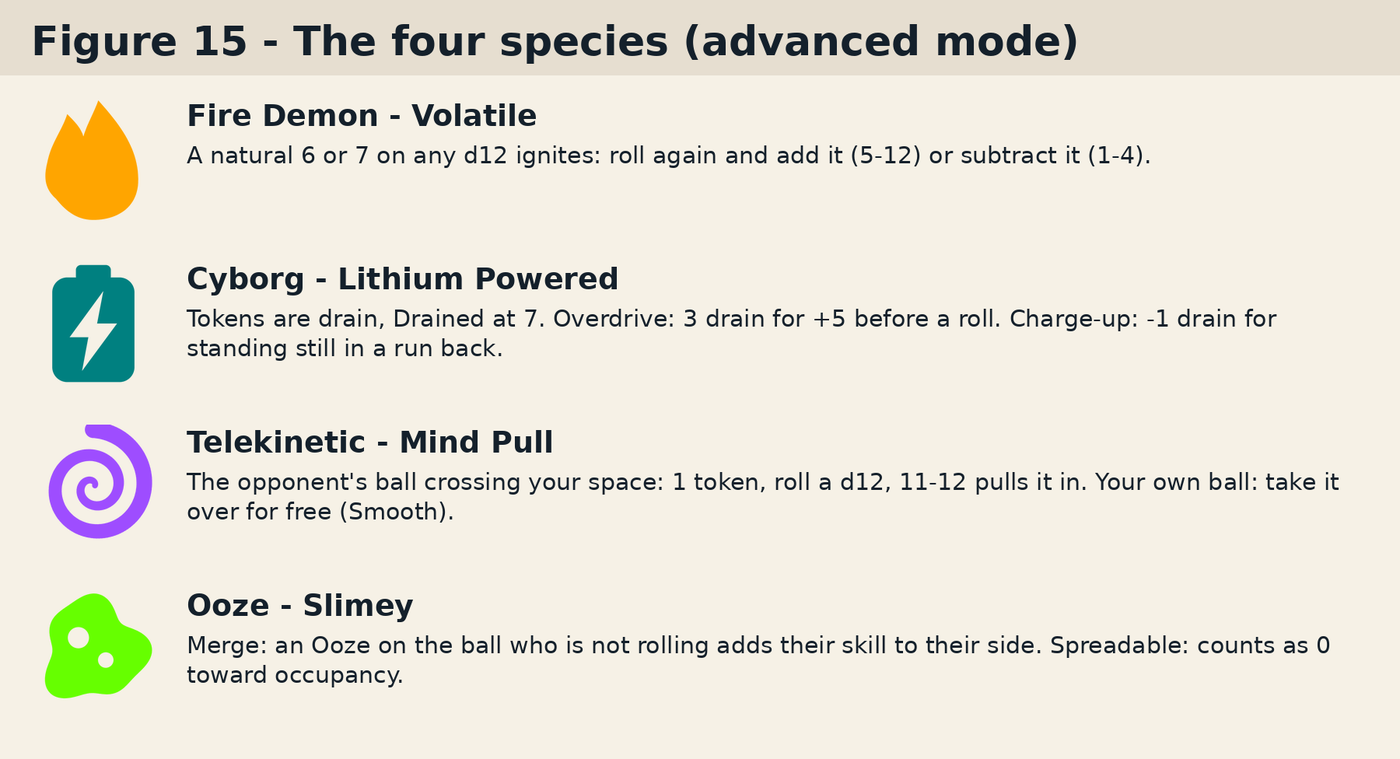
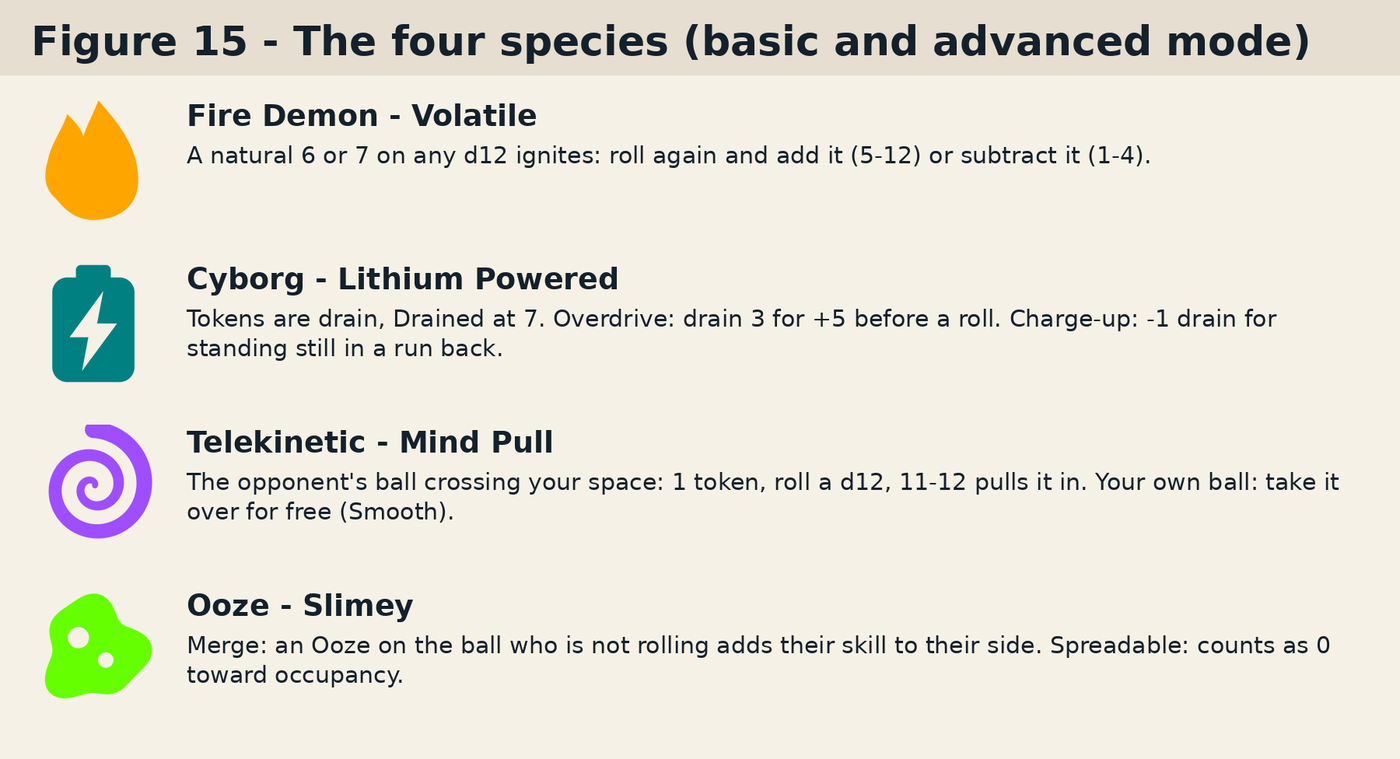
Rules: three modes -- training, basic and advanced
The author, 2026-09-25: species abilities move into basic mode; what
was basic mode becomes training mode, with no ability of any kind; the
tutorial is a training game; advanced mode adds the gambits and the
players' personal abilities to basic mode. The per-module opt-out goes
with it.

The Charter's Part II becomes basic and advanced mode, Law 18 says
which mode plays what and names the personal abilities (not yet worded
one by one), and the Learn to Play now teaches training mode. Dated
entry in docs/rules-log.md.

Claude-Session: https://claude.ai/code/session_01SVYTCuhqZTVsWg7A5R1maX

Changed region(s): [[0.4914, 0.0303, 0.9521, 0.0909], [0.4914, 0.3939, 0.5529, 0.4545]]

diff --git a/d12ball/rulebook_figures.py b/d12ball/rulebook_figures.py
@@ -616,7 +616,7 @@ def species_figure() -> Image.Image:
     width = 1800
     canvas = Image.new("RGB", (width, TITLE_BAND + len(entries) * row_h + 40), FACE_COLOR)
     draw = ImageDraw.Draw(canvas)
-    draw_title(draw, "Figure 15 - The four species (advanced mode)", width)
+    draw_title(draw, "Figure 15 - The four species (basic and advanced mode)", width)
     name_font = render.load_font(38, bold=True)
     text_font = render.load_font(30)
     y = TITLE_BAND + 30

diff --git a/docs/living-rules.md b/docs/living-rules.md
@@ -1,6 +1,6 @@
 # The D12Ball Charter: Laws of the Game
 
-This document is the final authority on the rules of D12 Ball. It states each rule once and settled, for **basic mode** and for the **advanced mode** a game may be played in instead. History, open questions and the places upstream has not caught up yet all belong in [rules-log.md](rules-log.md), and the illustrated introduction to the game is [learn-to-play.md](learn-to-play.md).
+This document is the final authority on the rules of D12 Ball. It states each rule once and settled, for each of the three modes a game may be played in: **training**, **basic** and **advanced**. History, open questions and the places upstream has not caught up yet all belong in [rules-log.md](rules-log.md), and the illustrated introduction to the game is [learn-to-play.md](learn-to-play.md).
 
 ## Contents
 
@@ -23,8 +23,8 @@ This document is the final authority on the rules of D12 Ball. It states each ru
   - [Law 15. Exhaustion and injury](#exhaustion-and-injury)
   - [Law 16. The clock](#the-clock)
   - [Law 17. Extreme shootout](#extreme-shootout)
-- Part II -- Advanced mode
-  - [Law 18. Advanced mode](#advanced-mode)
+- Part II -- Basic and advanced mode
+  - [Law 18. The three modes](#the-three-modes)
   - [Law 19. Gambits](#gambits)
   - [Law 20. Species abilities](#species-abilities)
 - [Appendix A. Quick reference](#appendix-a-quick-reference)
@@ -38,7 +38,7 @@ The Charter is divided into **Laws**, each Law into **sections**, and each secti
 
 **Precedence.** Where the Charter and any other statement of the rules disagree, the Charter is right: it wins over the Learn to Play, over the text printed on a card or a board, and over the bot. Where the Learn to Play simplifies, it says so and names the Law it simplifies.
 
-**Basic mode and advanced mode.** Laws 1 to 17 are the whole of the game in basic mode. Part II is what advanced mode adds and changes: [Law 18](#advanced-mode) says what it switches on, [Law 19](#gambits) is the gambits and [Law 20](#species-abilities) the species abilities. A rule in Part II wins over a rule in Part I for a game playing the module it belongs to, and applies nowhere else.
+**Training, basic and advanced mode.** Laws 1 to 17 are the whole of the game in training mode. Part II is what the other two modes add and change: [Law 18](#the-three-modes) says which mode plays what, [Law 19](#gambits) is the gambits and [Law 20](#species-abilities) the species abilities. A rule in Part II wins over a rule in Part I for a game playing the module it belongs to, and applies nowhere else.
 
 **Defined terms** are in bold where they are defined, and every one is listed in [Appendix B](#appendix-b-glossary) with the paragraph that defines it.
 
@@ -48,7 +48,7 @@ The Charter is divided into **Laws**, each Law into **sections**, and each secti
 
 ## Part I -- The game
 
-The whole of D12 Ball in basic mode, Laws 1 to 17. Nothing in Part I depends on Part II.
+The whole of D12 Ball in training mode, Laws 1 to 17. Nothing in Part I depends on Part II.
 
 ## The game in brief
 
@@ -112,7 +112,7 @@ Coverage is checked one team at a time, so an opposing meeple never covers a spa
 
 ### Players and roles
 
-A team is nine players, and in basic mode the two teams are identical.
+A team is nine players, and in training mode the two teams are identical.
 
 Every player has an **offensive skill** from 1 to 6 and a **defensive skill** that is its inverse, so the two always total 7.
 
@@ -163,7 +163,7 @@ A **space minute** is the unit of game time -- see [the clock](#the-clock).
 
 A **live ball** is one in play. A **dead ball** is one being brought back into play after a goal, a missed shot, an own-goal roll, a ball out of bounds or a period's start: it is carried to where play starts again rather than travelling over the spaces between.
 
-**Exhausted** and **Injured** are the two conditions a player can be in -- see [Law 15](#exhaustion-and-injury). In advanced mode a Cyborg's own words for them are Drained and Damaged -- see [Lithium Powered](#lithium-powered-cyborg).
+**Exhausted** and **Injured** are the two conditions a player can be in -- see [Law 15](#exhaustion-and-injury). In basic and advanced mode a Cyborg's own words for them are Drained and Damaged -- see [Lithium Powered](#lithium-powered-cyborg).
 
 **Behind** is the condition under which a coach holds gambits in advanced mode -- see [who may play a gambit](#who-may-play-a-gambit).
 
@@ -869,19 +869,29 @@ A level round goes to **sudden death**: each coach secretly picks one of their p
 
 Once all six have shot, a new round begins and everybody is available again.
 
-## Part II -- Advanced mode
+## Part II -- Basic and advanced mode
 
-What advanced mode adds to Part I and where it changes it, Laws 18 to 20. In basic mode, nothing in Part II exists.
+What basic and advanced mode add to Part I and where they change it, Laws 18 to 20. In training mode, nothing in Part II exists.
 
-## Advanced mode
+## The three modes
 
-### The two modules
+### What each mode plays
 
-**Advanced mode** turns on two modules: the [gambits](#gambits) and the [species abilities](#species-abilities). Both come on with it, and a game may take just one of the two. Which are in play is declared before the toss.
+A game is played in one of three modes, declared before the toss. Each adds to the one before it:
+
+- **Training mode** is Part I and nothing else. Species is only a name on the card, and every player follows the standard rules. The tutorial is a training game.
+- **Basic mode** adds the [species abilities](#species-abilities).
+- **Advanced mode** adds the [gambits](#gambits) and the [personal abilities](#personal-abilities) to basic mode.
 
 ### Part II wins in its own mode
 
-A rule in Part II wins over a rule in Part I for a game playing the module it belongs to. In basic mode Part II does not apply, species is only a name on the card, and every player follows the standard rules.
+A rule in Part II wins over a rule in Part I for a game playing the module it belongs to. In training mode Part II does not apply.
+
+### Personal abilities
+
+**Some players carry an ability of their own**, printed on the advanced side of their card, and some carry an advanced offensive or defensive skill. Both are advanced mode's, and apply in no other mode. A player's advanced skill replaces their role's skill of the same kind; where a card gives none, the player keeps their role's. An advanced skill is not held to 1 to 6, and a player's two skills need not total 7. A player with no personal ability plays advanced mode with their role's ability alone.
+
+*Note.* The personal abilities are not yet written into this Charter one by one. Until they are, the text on the card is what a table plays.
 
 ### Where Part II changes Part I
 
@@ -892,6 +902,7 @@ A rule in Part II wins over a rule in Part I for a game playing the module it be
 | A Midfielder adds 3 for their own Low Pass or Pressure ([Law 6](#the-skill-test)) | For their own Skilled Pass or Double Team too ([Skilled Pass](#skilled-pass), [Double Team](#double-team)) | Gambits |
 | The skill test adds one challenger's defensive skill ([Law 6](#the-skill-test)) | Under a Double Team it adds both defenders' ([Double Team](#double-team)) | Gambits |
 | A coach chooses from three cards ([Law 6](#choosing-and-revealing)) | A coach who is behind chooses from six, against a challenge ([Law 19](#gambits)) | Gambits |
+| A player's skills are their role's, 1 to 6 and totalling 7 ([Law 2](#players-and-roles)) | A player's advanced skill replaces their role's ([Personal abilities](#personal-abilities)) | Personal |
 | A player is Exhausted when tokens exceed defensive skill ([Law 15](#becoming-exhausted)) | A Cyborg is Drained at 7 or more, whatever their skill ([Lithium Powered](#lithium-powered-cyborg)) | Species |
 | A player who fails an injury check is Injured ([Law 15](#the-injury-check)) | A Cyborg's check is a damage test, and failing it makes them Damaged -- the same check and condition under their own words ([Lithium Powered](#lithium-powered-cyborg)) | Species |
 | Nothing else costs tokens ([Law 15](#gaining-tokens)) | Mind Pull costs 1 and Overdrive 3 ([Mind Pull](#mind-pull-telekinetic), [Lithium Powered](#lithium-powered-cyborg)) | Species |
@@ -1039,7 +1050,7 @@ Possession does not change and the ball is left with the handler. Where the hand
 
 There is one ability per species, and every player of that species has it whichever team is fielding them. A player fielded on both sides of one game -- the same person in two kits -- carries it on both cards.
 
-The species abilities are the second of the two modules advanced mode turns on, alongside the [gambits](#gambits); a game may take just one of the two.
+The species abilities are played in basic mode and in advanced mode, and never in training mode.
 
 ### Volatile (Fire Demon)
 
@@ -1061,7 +1072,7 @@ Four rolls are covered: their die in a [skill test](#the-skill-test) or a [conte
 
 *Note.* A blaze that wins is an upgrade nearly every time: a skill test usually means the cards tied, and a card that did not win on the cards does not resolve as a gambit on its own, so even a player who *did* play the gambit gets it resolving as one for the first time. A burn that wins won carrying a penalty; the rider is the loser's to hand over, not theirs to earn.
 
-Outside a maneuver skill test -- or in a game that took the species abilities without the [gambits](#gambits) -- there is no tier to change, and the blaze or burn is only the number.
+Outside a maneuver skill test -- or in basic mode, which plays the species abilities without the [gambits](#gambits) -- there is no tier to change, and the blaze or burn is only the number.
 
 ### Lithium Powered (Cyborg)
 
@@ -1143,7 +1154,7 @@ The one place it reaches further is a stack: an Ooze sharing a space with a team
 
 **A turnover:** reset speed to 1, then -- a steal runs players back; a new play resets both sides and offers the side with the ball a Coaching Choice. **A time out** is not a turnover: the ball stays put and both coaches get one.
 
-**Species abilities (advanced mode):**
+**Species abilities (basic and advanced mode):**
 
 | Species | Ability |
 | --- | --- |
@@ -1156,6 +1167,7 @@ The one place it reaches further is a stack: an Ooze sharing a space with a team
 
 | Term | Defined in |
 | --- | --- |
+| Advanced skill, personal ability | [Personal abilities](#personal-abilities) |
 | Arrangement | [Definitions](#definitions); settled in [finishing a Coaching Choice](#finishing-a-coaching-choice) |
 | Back, forward | [Forward and back](#forward-and-back) |
 | Behind | [Who may play a gambit](#who-may-play-a-gambit) |
@@ -1186,6 +1198,7 @@ The one place it reaches further is a stack: an Ooze sharing a space with a team
 | Space minute | [Space minutes](#space-minutes) |
 | Speed | [The ball, the dice and the tokens](#the-ball-the-dice-and-the-tokens) |
 | Time out | [Time out](#time-out) |
+| Training mode, basic mode, advanced mode | [What each mode plays](#what-each-mode-plays) |
 
 ## Appendix C. The boards
 

diff --git a/docs/learn-to-play.md b/docs/learn-to-play.md
@@ -1,6 +1,6 @@
 # D12 Ball: Learn to Play
 
-This book teaches you to play D12 Ball in **basic mode**, which is the whole game as a new table should meet it. **The Charter settles every question.** If this book and the Charter disagree, the Charter is right, and this book has left something out on purpose. Every rule here names the Law it comes from, as *(Law 6.4)*, so you can read the whole of it when you want to.
+This book teaches you to play D12 Ball in **training mode**, which is the whole game as a new table should meet it. **The Charter settles every question.** If this book and the Charter disagree, the Charter is right, and this book has left something out on purpose. Every rule here names the Law it comes from, as *(Law 6.4)*, so you can read the whole of it when you want to.
 
 Two coaches. Nine players each, six on the field. Thirty minutes on a clock that never stops. You win on goals -- and a level game goes to the shootout, so somebody always wins.
 
@@ -11,12 +11,12 @@ Two coaches. Nine players each, six on the field. Thirty minutes on a clock that
 - **The jumbotron**: the clock, the score, and the piles the tokens come from.
 - **Two team boards**, one a coach: the bench, the back bench, and a reminder of the six maneuvers.
 - **Eighteen player cards**, nine a team, and a meeple for each.
-- **Twelve maneuver cards.** Six are the basic cards this book teaches; the six with the gambit band are advanced mode and stay in the box for now.
+- **Twelve maneuver cards.** Six are the basic cards this book teaches; the six with the gambit band are advanced mode's and stay in the box for now.
 - **The ball**: a d12. **Four more d12s** for rolling.
 - **Exhaustion tokens**, and the two condition markers, Exhausted and Injured.
 - **The coin**, for the toss.
 
-> **Basic and advanced mode.** Basic mode is everything in this book. Advanced mode adds a second card to every maneuver and gives each species an ability; the appendix on the last page says what it adds, and Part II of the Charter says all of it.
+> **Training, basic and advanced mode.** Training mode is everything in this book. Basic mode gives each species an ability; advanced mode adds a second card to every maneuver and some players' own abilities on top. The appendix on the last page says what each adds, and Part II of the Charter says all of it.
 
 
 ## The field, the players, the deal
@@ -158,17 +158,19 @@ Goal or miss, the ball is dead and the game restarts as a **new play**: both sid
 **Full time and the shootout.** The higher score wins. Level, and each coach lines up their six in secret and the pairs shoot one against one: d12 + offensive skill, higher scores, a tie stands. Best of six, then sudden death. *(Law 17)*
 
 
-## Appendix: advanced mode
+## Appendix: basic and advanced mode
 
-Advanced mode switches on two things, and a game may take either without the other. Everything here is Part II of the Charter, Laws 18 to 20.
+Basic mode adds the species abilities to everything in this book. Advanced mode adds the gambits and the players' personal abilities to basic mode. Everything here is Part II of the Charter, Laws 18 to 20.
 
 ![Figure 14 - The twelve cards on the cycle](rulebooks/figures/fig-14-the-gambits.png)
 
-**Gambits.** Every rank gets a second card, the **gambit**: the same maneuver, bigger, and with a price when it is beaten. Skilled Pass reaches any teammate within 3; Dribble Burst runs up to 4; Setup Pass sets up a shot; Clear knocks the ball back 3; Intercept steals forward; Double Team pushes 2 with help. A gambit is the advanced version of the basic card on its rank, so the cycle does not change. You hold your gambits only while your team is **behind** -- fewer goals, or more Exhausted-or-Injured players on the field -- and a gambit can only be played against a challenge. *(Law 19)*
+**Gambits (advanced).** Every rank gets a second card, the **gambit**: the same maneuver, bigger, and with a price when it is beaten. Skilled Pass reaches any teammate within 3; Dribble Burst runs up to 4; Setup Pass sets up a shot; Clear knocks the ball back 3; Intercept steals forward; Double Team pushes 2 with help. A gambit is the advanced version of the basic card on its rank, so the cycle does not change. You hold your gambits only while your team is **behind** -- fewer goals, or more Exhausted-or-Injured players on the field -- and a gambit can only be played against a challenge. *(Law 19)*
 
 ![Figure 15 - The four species](rulebooks/figures/fig-15-the-species.png)
 
-**Species abilities.** Fire Demons **ignite** on a natural 6 or 7. Cyborgs run on **drain** and can **Overdrive** a roll. Telekinetics **pull** the opponent's ball as it crosses them, and take their own ball for free. Oozes **merge** into a skill test on their space. The species reference cards in the box carry the rest, and the Charter carries all of it. *(Law 20)*
+**Species abilities (basic and advanced).** Fire Demons **ignite** on a natural 6 or 7. Cyborgs run on **drain** and can **Overdrive** a roll. Telekinetics **pull** the opponent's ball as it crosses them, and take their own ball for free. Oozes **merge** into a skill test on their space. The species reference cards in the box carry the rest, and the Charter carries all of it. *(Law 20)*
+
+**Personal abilities (advanced).** Some players carry an ability of their own, and a few a higher skill, on the advanced side of their card. *(Law 18.3)*
 
 
 ## Quick reference

diff --git a/docs/rules-log.md b/docs/rules-log.md
@@ -4,7 +4,7 @@ Every change the rules have made, with its date; what is still unanswered; and w
 answer came from. **The rules themselves are in [living-rules.md](living-rules.md)** -- this
 file never states a rule, it only records how one got there.
 
-**As of:** 2026-08-26.
+**As of:** 2026-09-25.
 
 ## Where the rules come from
 
@@ -70,6 +70,8 @@ printed cards for now.
 review). `GameMode` is still a single BASIC/ADVANCED switch and the opt-out is two bools on the
 game record beside it (`advanced_maneuvers`, `species_abilities`), both defaulting on -- so
 turning advanced mode on brings both, and a game may drop either.
+*Superseded on 2026-09-25*: there are three modes, the species abilities are basic mode's, and
+advanced mode always plays both -- see that entry.
 
 **All four abilities are built** (2026-09-07).
 
@@ -150,6 +152,48 @@ advanced golden), and nobody has yet played it at a table.
 
 Newest first. Each entry says where the change came from: a pull from the sheet or Notion, or
 the author directly.
+
+### 2026-09-25 -- author, three modes: training, basic and advanced
+
+The author: *"from now on species abilities are part of basic mode and what currently basic mode
+will be called training mode and training mode has no species abilities at all the tutorial is
+in training mode obviously and all three options should be offered. advance mode ads gambit and
+individual special abilities that are on the spreadsheet for some but not all players."*
+
+**A game is played in one of three modes, each adding to the one before it:**
+
+- **Training mode** is what basic mode was until today: Part I of the Charter and nothing else,
+  with species only a name on the card. The tutorial is a training game.
+- **Basic mode** adds the species abilities (Law 20).
+- **Advanced mode** adds the gambits (Law 19) and the players' personal abilities -- the
+  `advanced_abilities` tab's sixteen abilities and three sets of advanced skill scores -- to
+  basic mode.
+
+**What this replaces.** Since PR #177's review, advanced mode was one switch over two modules,
+the gambits and the species abilities, and a game could take just one of them. The species
+abilities now belong to basic mode, and the author named three modes to offer rather than
+modules to toggle, so **the opt-out is gone from the rules**: advanced mode always plays the
+gambits and the species abilities. Two consequences in the Charter that follow from the ruling
+rather than being new decisions:
+
+- Volatile's tier change needs the gambits, so in basic mode a blaze or a burn is only the
+  number -- the case the Charter already described as "a game that took the species abilities
+  without the gambits", now named as basic mode.
+- "In basic mode the two teams are identical" (Law 2) is now training mode's: with species
+  abilities on, the two teams' species differ in play.
+
+**Personal abilities go into the Charter by name only** (Law 18, "Personal abilities"): which
+mode plays them, and that an advanced skill replaces the role's skill of the same kind (the
+author, 2026-09-22 entry below). The sixteen abilities themselves are still one-line sheet cells
+and are not written into the Charter one by one; that is still open, under "Blocked or deferred".
+
+In the bot: `GameMode` gains `training`, and `basic` keeps its saved value with the new meaning,
+so an unfinished basic game saved before today plays its remaining turns with the species
+abilities on. A tutorial saved as `basic` is held to training by `species_abilities_apply`,
+because its scripted beats were written without them. The setup and lobby screens offer the
+three modes and no longer offer the module toggles; the two opt-out fields stay on the record
+so an advanced game saved with one module off plays on as it was started. The personal
+abilities are not played by the bot yet.
 
 ### 2026-09-24 (2 of 2) -- author, Mind Pull is asked before Smooth
 
@@ -2806,7 +2850,9 @@ Nothing. What is left unbuilt is blocked on something, and is in the next sectio
   advanced skill scores, and the import carries both on `PlayerDefinition`. What is still
   missing is the module that plays them -- the author calls it the personal-ability skill
   module of advanced mode -- and the rules text for the sixteen abilities, which are one-line
-  sheet cells today and not in the living rules. The **back of a printed player card**, that
+  sheet cells today. Since 2026-09-25 the Charter names them as advanced mode's (Law 18,
+  "Personal abilities") and says an advanced skill replaces the role's, but does not word the
+  sixteen one by one. The **back of a printed player card**, that
   player's advanced version (the author, 2026-08-12), waits on the same thing plus a layout
   decision: whether the back shows the advanced ability alone or under the basic one, and
   whether its stats row takes the advanced scores.
